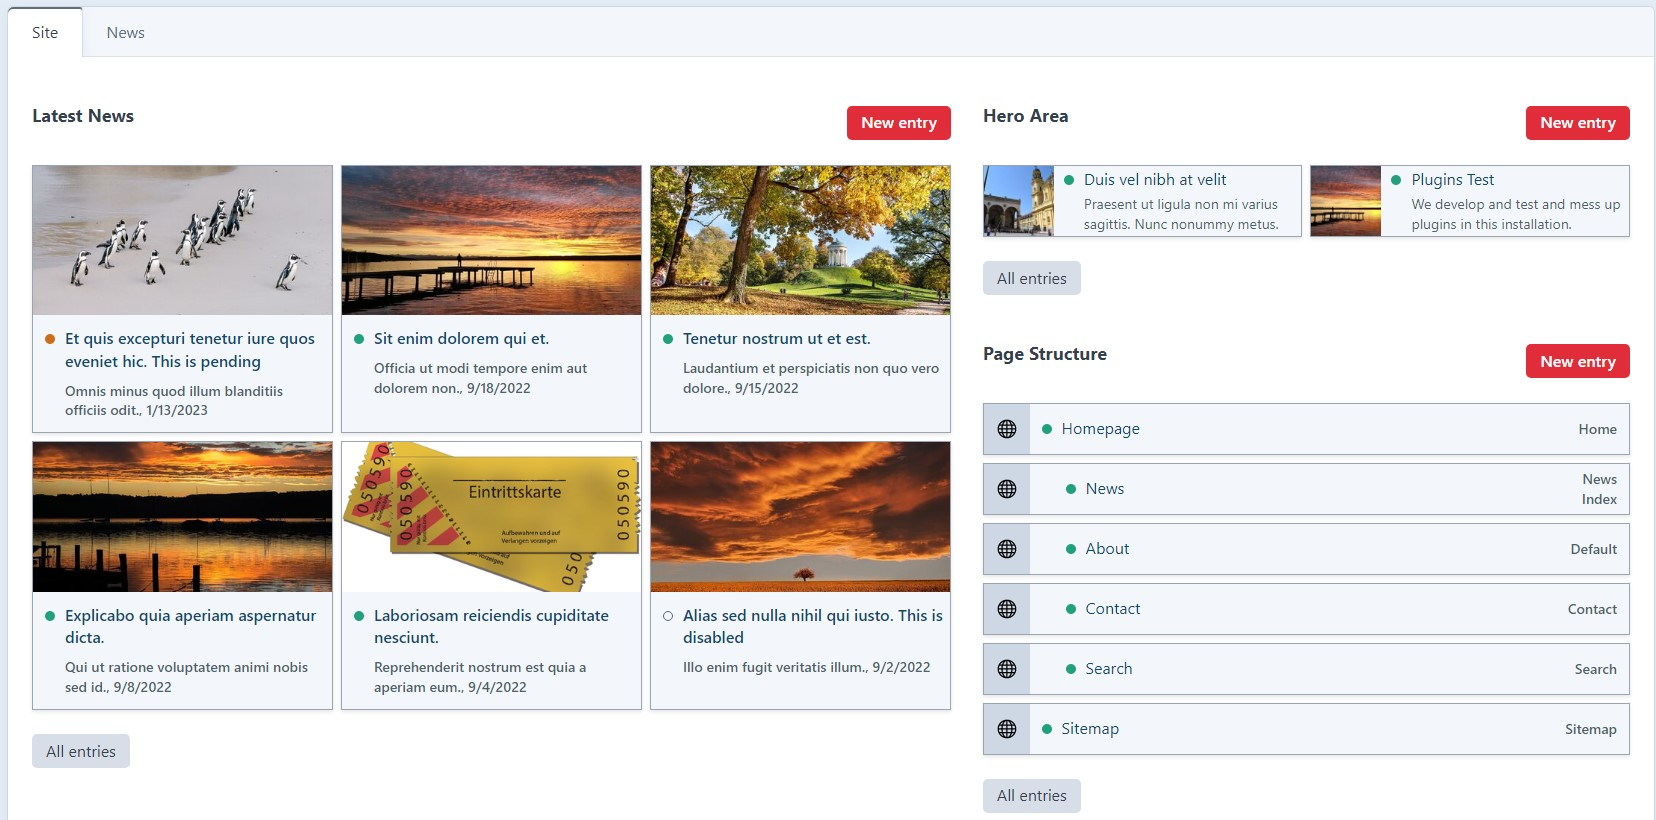
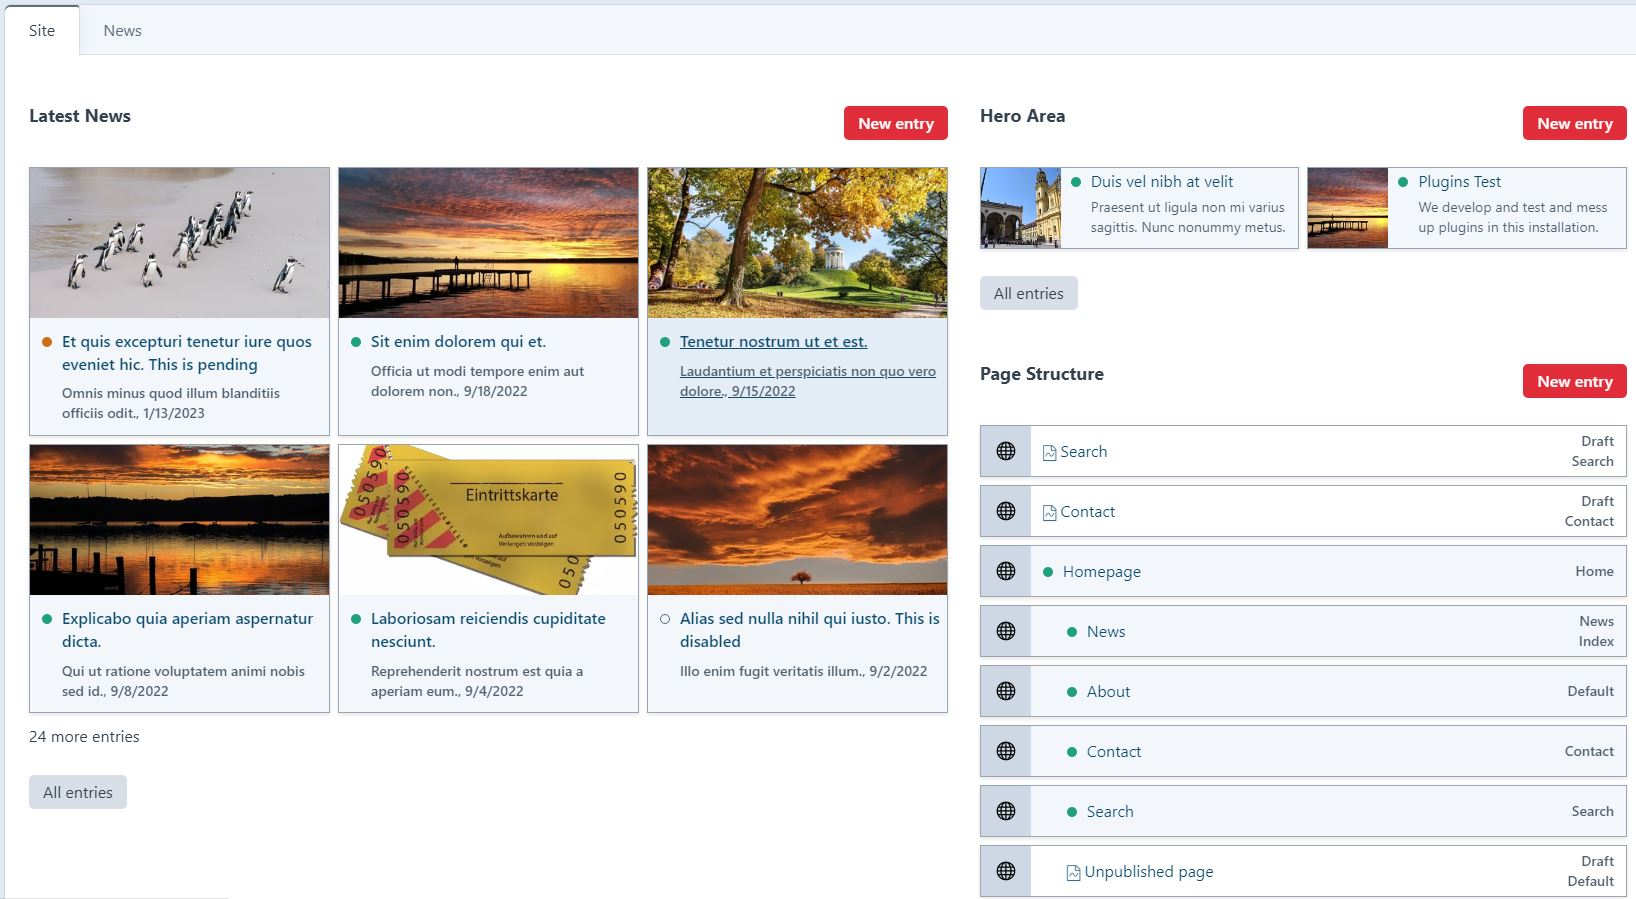
Tweaks

diff --git a/src/assets/dist/cpstyles.css b/src/assets/dist/cpstyles.css
@@ -92,9 +92,6 @@
     background-color: var(--gray-050);
 }
 
-.co-entry.draft.provisional {
-    background-color: var(--blue-050);
-}
 
 .co-entry:hover, .co-entry.draft.provisional:hover {
     background-color: var(--gray-100);
@@ -116,6 +113,10 @@
 .co-entries {
     display: grid;
     gap: 0.5rem; /* 32px */
+}
+
+[data-icon] {
+    margin-right: 4px;
 }
 
 /* ========================================
@@ -141,6 +142,7 @@
     height: 50px;
     background-color: var(--gray-200);
     display: flex;
+    flex-shrink: 0;
     justify-content: center;
     align-items: center;
 }

diff --git a/src/services/ContentOverviewService.php b/src/services/ContentOverviewService.php
@@ -6,18 +6,23 @@ use Craft;
 use craft\base\Component;
 use craft\elements\Entry;
 use wsydney76\contentoverview\events\ModifyContentOverviewQueryEvent;
+use wsydney76\contentoverview\models\Settings;
+use wsydney76\contentoverview\Plugin;
 
 class ContentOverviewService extends Component
 {
 
     public const EVENT_MODIFY_CONTENTOVERVIEW_QUERY = 'modifyContentoverviewQuery';
 
-    public function getEntries($sectionSettings)
+    public function getEntries($sectionSettings): array
     {
+        /** @var Settings $settings */
+        $settings = Plugin::getInstance()->getSettings();
         $site = Craft::$app->request->getParam('site', Craft::$app->sites->primarySite->handle);
         $limit = $sectionSettings['limit'] ?? null;
         $orderBy = $sectionSettings['orderBy'] ?? null;
-        $section = $sectionSettings['handle'] ?? null;
+        $section = $sectionSettings['section'] ?? null;
+        $imageField = $sectionSettings['imageField'] ?? null;
         $scope = $sectionSettings['scope'] ?? null;
         $status = $sectionSettings['status'] ?? null;
 
@@ -42,15 +47,17 @@ class ContentOverviewService extends Component
             $query->status($status);
         }
 
+        if ($imageField) {
+            $query->with([
+                [$imageField, [
+                    'withTransforms' =>  [$settings->transforms[$sectionSettings['layout'] ?? $settings->defaultLayout]]
+                ]]
+            ]);
+        }
+
         switch ($scope) {
             case 'drafts': {
                 $query->drafts(true);
-                break;
-            }
-            case 'provisionaluser': {
-                $query
-                    ->provisionalDrafts(true)
-                    ->draftCreator(Craft::$app->user->identity);
                 break;
             }
             case 'provisional': {
@@ -64,6 +71,10 @@ class ContentOverviewService extends Component
                     ->drafts(null);
                 break;
             }
+        }
+
+        if($scope && isset($sectionSettings['ownDraftsOnly']) && $sectionSettings['ownDraftsOnly'] ) {
+            $query->draftCreator(Craft::$app->user->identity);
         }
 
         if ($this->hasEventHandlers(self::EVENT_MODIFY_CONTENTOVERVIEW_QUERY)) {

diff --git a/src/models/Settings.php b/src/models/Settings.php
@@ -10,4 +10,10 @@ class Settings extends Model
     public $tabs = [];
     public $widgetText = 'Get a quick overview of your content';
     public $linkTarget = '_blank';
+    public $defaultLayout = 'list';
+    public $transforms = [
+        'list' => ['width' => 50, 'height' => 50, 'format' => 'webp'],
+        'cardlets' => ['width' => 150, 'height' => 150, 'format' => 'webp'],
+        'cards' => ['width' => 400, 'height' => 200, 'format' => 'webp'],
+    ];
 }

diff --git a/README.md b/README.md
@@ -4,29 +4,36 @@ Shows an overview of a site's content.
 
 Work in progress...
 
+![screenshot](/images/screenshot1.jpg)
+
+![screenshot](/images/screenshot2.jpg)
+
 ## Config
 
-Needs a config file in `config/contentoverview.php`
+Setup a config file in `config/contentoverview.php`
 
 Structure of the configuration file:
 
 
-- navLabel (string, label for primary navigation, page title)
-- widgetText (string, text for dashboard widget)
-- linkTarget (string, set to '_blank' to open edit screens in a new tab (default), else blank '')
+- navLabel (string, optional, label for primary navigation, page title)
+- widgetText (string, optional, text for dashboard widget)
+- linkTarget (string, optional, set to '_blank' to open edit screens in a new tab (default), else blank '')
+- defaultLayout (string, optional, list (default)|cardlets|cards)
+- transforms (array, optional, image transforms for layouts) 
 - tabs[] (array, tabs of the page)
     - label (string, tab text)
     - id (string, unique id, used as anchor)
     - columns[] (array, columns inside the tab container, uses a 12 columns grid)
         - width (int, number of columns occupied, 1-12)
         - sections[] (array, sections display inside the column)
-            - handle (string, section handle)
+            - section (string, section handle)
             - heading (string, optional, heading of the section, defaults to section name)
             - limit (int, optional, number of entries to show)
             - info (string|array, object template(s) to render in addition to the title)
-            - image (string, optional, name of the image field to use)
+            - imageField (string, optional, name of the image field to use)
             - layout (string, optional, (list (default)|cardlets|cards)
             - scope (string, optional, whether drafts should be shown, drafts|provisional|provisionaluser|all, default: only published entries will be included)
+            - ownDraftsOnly (bool, if true and scope is defined: show only drafts created by the current user)
             - status (string|array, optional, see [docs](https://craftcms.com/docs/4.x/entries.html#status)
             - orderBy (string|array, optional see [docs](https://craftcms.com/docs/4.x/entries.html#orderby)
             - buttons (bool, optional whether buttion 'new entry', 'all entries' will be shown
@@ -54,11 +61,11 @@ return [
                     'width' => 7,
                     'sections' => [
                         [
-                            'handle' => 'news',
+                            'section' => 'news',
                             'heading' => 'Latest News',
                             'limit' => 6,
                             'info' => '{tagline}, {postDate|date("short")}',
-                            'image' => 'featuredImage',
+                            'imageField' => 'featuredImage',
                             'layout' => 'cards'
                         ]
                     ]
@@ -67,17 +74,18 @@ return [
                     'width' => 5,
                     'sections' => [
                         [
-                            'handle' => 'heroArea',
+                            'section' => 'heroArea',
                             'limit' => 2,
                             'info' => '{heroTagline}',
-                            'image' => 'heroImage',
+                            'imageField' => 'heroImage',
                             'layout' => 'cardlets'
                         ],
                         [
-                            'handle' => 'page',
+                            'section' => 'page',
                             'heading' => 'Page Structure',
-                            'info' => '{type.name}',
-                            'icon' => '@appicons/globe.svg'
+                            'info' => '{isDraft ? "Draft"} {type.name}',
+                            'icon' => '@appicons/globe.svg',
+                            'scope' => 'all'
                         ]
                     ]
                 ],
@@ -85,7 +93,7 @@ return [
                     'width' => 4,
                     'sections' => [
                         [
-                            'handle' => 'legal',
+                            'section' => 'legal',
                             'info' => '{type.name}'
                         ]
                     ]
@@ -97,37 +105,42 @@ return [
             'id' => 'tab2',
             'columns' => [
                 [
-                    'width' => 5,
+                    'width' => 6,
                     'sections' => [
                         [
                             'heading' => 'Drafts',
-                            'handle' => 'news',
+                            'section' => 'news',
                             'limit' => 12,
-                            'info' => '{tagline}, {postDate|date("short")}',
-                            'image' => 'featuredImage',
+                            'info' => [
+                                '{tagline}',
+                                '{postDate|date("short")}',
+                                'Draft created by {creator.name}',
+                            ],
+                            'imageField' => 'featuredImage',
                             'layout' => 'cardlets',
                             'orderBy' => 'postDate desc',
                             'scope' => 'drafts',
-                            'buttons' => true,
+                            'buttons' => false,
                         ],
 
                         [
                             'heading' => 'My Provisional Drafts',
-                            'handle' => 'news',
+                            'section' => 'news',
                             'limit' => 12,
                             'info' => '{tagline}, {postDate|date("short")}',
-                            'image' => 'featuredImage',
+                            'imageField' => 'featuredImage',
                             'layout' => 'cardlets',
                             'orderBy' => 'postDate desc',
                             'scope' => 'provisional',
+                            'ownDraftsOnly' => true,
                             'buttons' => false
                         ],
                         [
                             'heading' => 'Pending',
-                            'handle' => 'news',
+                            'section' => 'news',
                             'limit' => 12,
                             'info' => '{tagline}, {postDate|date("short")}',
-                            'image' => 'featuredImage',
+                            'imageField' => 'featuredImage',
                             'layout' => 'cardlets',
                             'orderBy' => 'postDate desc',
                             'status' => 'pending',
@@ -135,10 +148,10 @@ return [
                         ],
                         [
                             'heading' => 'Disabled',
-                            'handle' => 'news',
+                            'section' => 'news',
                             'limit' => 12,
                             'info' => '{tagline}, {postDate|date("short")}',
-                            'image' => 'featuredImage',
+                            'imageField' => 'featuredImage',
                             'layout' => 'cardlets',
                             'orderBy' => 'postDate desc',
                             'status' => 'disabled',
@@ -148,14 +161,14 @@ return [
                     ]
                 ],
                 [
-                    'width' => 7,
+                    'width' => 6,
                     'sections' => [
                         [
                             'heading' => 'Latest Live News',
-                            'handle' => 'news',
+                            'section' => 'news',
                             'limit' => 12,
                             'info' => '{postDate|date("short")}',
-                            'image' => 'featuredImage',
+                            'imageField' => 'featuredImage',
                             'layout' => 'list',
                             'orderBy' => 'postDate desc',
                             'status' => 'live'
@@ -168,10 +181,6 @@ return [
     ]
 ];
 ```
-
-![screenshot](/images/screenshot1.jpg)
-
-![screenshot](/images/screenshot2.jpg)
 
 ## Events
 
@@ -191,6 +200,12 @@ Event::on(
     }
   });
 ```
+
+## Widget
+
+There is a small dashboard widget, offering quick links to each tab of the overview page.
+
+![screenshot](/images/widget.jpg)
 
 ## TODOS:
 
